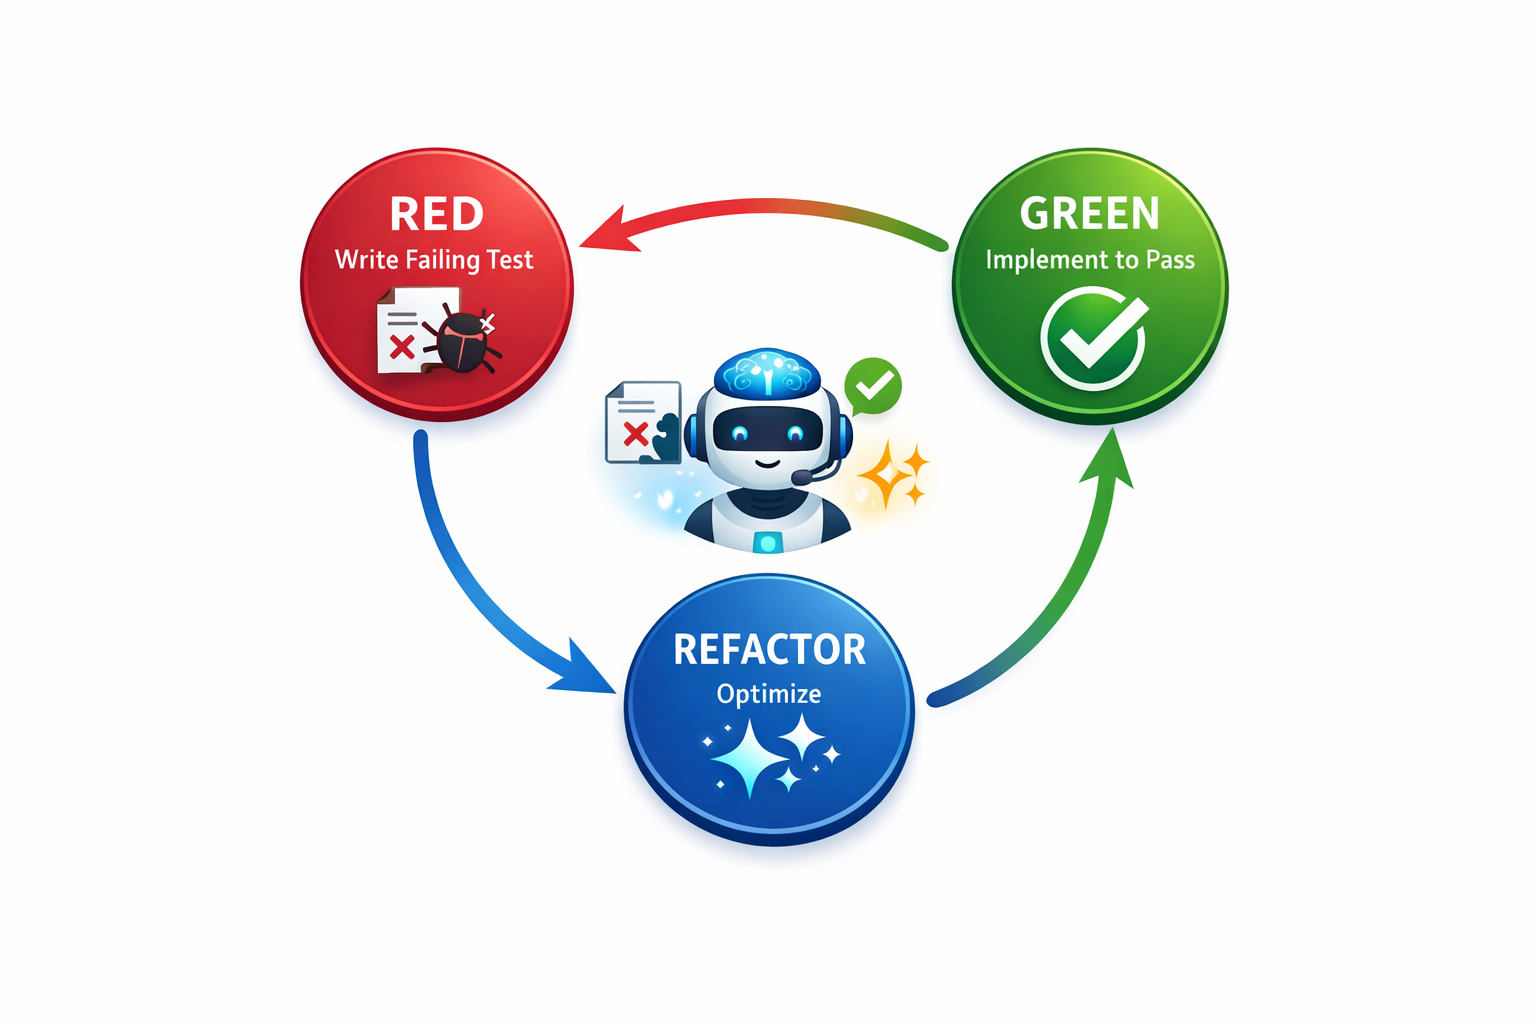
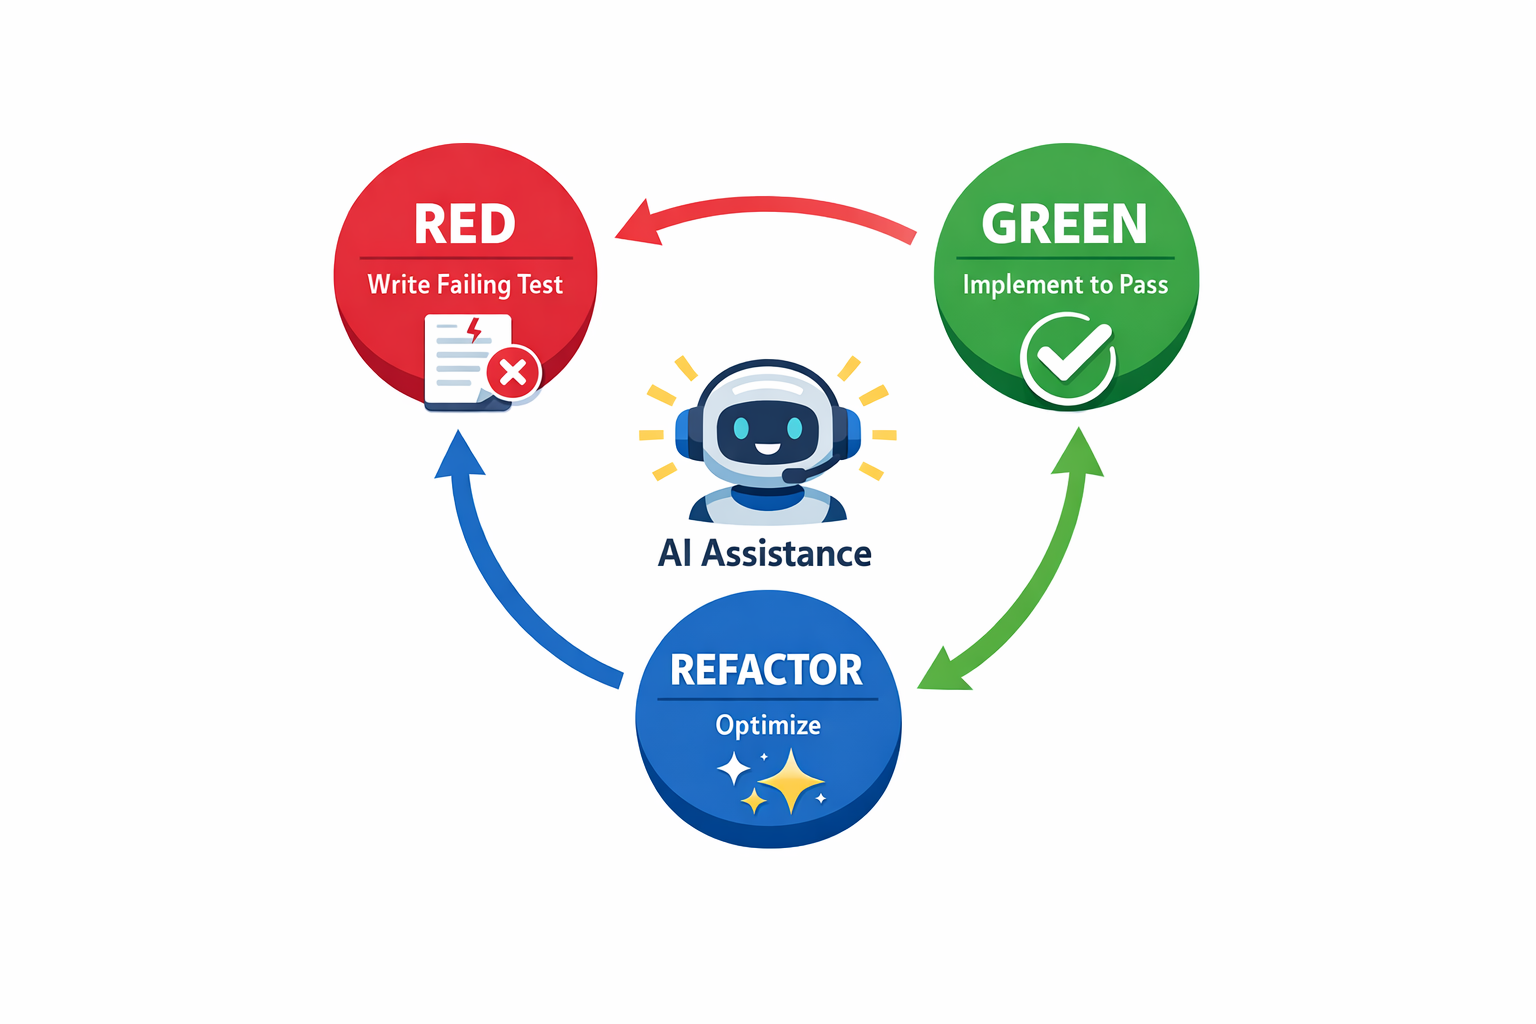
updated images, and main doc cleanup.

Changed region(s): [[0.1875, 0.125, 0.8125, 0.8438]]

diff --git a/SOFTWARE-ENGINEERING-2026.md b/SOFTWARE-ENGINEERING-2026.md
@@ -80,13 +80,113 @@ cd ../myapp-feature && claude
 - Route simple queries to cheaper models (Haiku for quick tasks)
 - Use subagents for research to keep main context clean
 
+**Technical Topics Covered:**
+| Category | Concepts |
+|----------|----------|
+| **AI Tools** | Claude Code, Subagents, Background Agents, Skills, Hooks, Slash Commands |
+| **Protocols** | MCP, A2A, LSP |
+| **Frameworks** | LangChain, LangGraph, Claude Agent SDK, Inngest AgentKit |
+| **Observability** | LangFuse, LangSmith, OpenTelemetry, Grafana, Splunk, PostHog |
+| **RAG/Embeddings** | PGVector, Pinecone, Docling, Voyage |
+| **Security** | OWASP, Semgrep, PromptFoo, Guardrails |
+| **Automation** | N8N, Zapier, Make, Temporal |
+| **Local LLMs** | Ollama, vLLM, LM Studio, llama.cpp |
+| **Code Quality** | Biome, Ruff, TypeScript, Clippy |
+| **Version Control** | Git Worktrees, GitHub CLI |
+| **Methodology** | TDD, 12 Factor, DRY, SRP |
+| **Optimization** | Prompt Caching, Model Routing, OpenRouter |
+| **Languages** | Rust, TypeScript, Python |
+| **Formats** | TOON, Markdown, CLAUDE.md |
+
 **Jump To:**
 - [Detailed Workflow](#tldr-workflow) - The full PROMPT→SHIP cycle
 - [Claude Code Features](#claude-code-features) - Hooks, slash commands, subagents
 - [Prompting Guidelines](#prompting-guidelines) - Get better AI output
 - [MCP Setup](#mcp-model-context-protocol) - Connect AI to your tools
 - [Security](#security) - Protect your AI-generated code
-- [Tech Stack](#recommended-tech-stack-2026) - What to use in 2026
+
+---
+
+## Automate Everything You Do
+
+In 2026, AI doesn't just write code—it handles every artifact in your workflow. If you're doing it manually, you're doing it wrong.
+
+**What to Automate:**
+
+| Task | AI Approach |
+|------|-------------|
+| **Code** | Claude Code, Cursor, Copilot |
+| **Documentation** | Generate from code comments, types, and tests |
+| **Diagrams** | Mermaid, PlantUML, D2 from natural language |
+| **Presentations** | Gamma.app, Beautiful.ai, Claude + reveal.js |
+| **Images** | DALL-E, Midjourney, Ideogram, Flux |
+| **Icons/Logos** | Recraft, IconifyAI |
+| **API Specs** | Generate OpenAPI from code or vice versa |
+| **Test Data** | Synthetic data generation with Faker + AI |
+| **Database Migrations** | AI writes migration scripts from schema changes |
+| **Commit Messages** | `/commit` command in Claude Code |
+| **PR Descriptions** | `/pr` command auto-generates summaries |
+| **Release Notes** | Generate from commit history and PRs |
+| **Runbooks** | AI documents your incident response |
+| **Meeting Notes** | Otter.ai, Fireflies, Claude summarization |
+| **Emails/Slack** | Draft responses, summarize threads |
+| **Code Reviews** | Automated PR review with Claude GitHub app |
+| **Refactoring** | AI identifies and executes improvements |
+| **Translations** | i18n file generation |
+| **Accessibility** | ARIA labels, alt text generation |
+
+**The Automation Mindset:**
+```
+Before: "I need to write documentation for this API"
+After:  "Generate OpenAPI spec from the code, then create markdown docs from the spec"
+
+Before: "I need to make a diagram of this architecture"
+After:  "Read the infrastructure code and generate a Mermaid diagram"
+
+Before: "I need to prepare slides for the team meeting"
+After:  "Summarize this week's PRs and generate a presentation with key changes"
+```
+
+**Example Prompts:**
+```
+Documentation:
+"Generate API documentation for all endpoints in src/routes/. Include request/response
+examples, error codes, and authentication requirements. Output as markdown."
+
+Diagrams:
+"Create a Mermaid sequence diagram showing the checkout flow from cart to payment
+confirmation. Read the relevant service files to understand the flow."
+
+Presentations:
+"Create a 10-slide presentation summarizing the Q3 features we shipped. Pull from
+the merged PRs and release notes. Include before/after screenshots where relevant."
+
+Images:
+"Generate a hero image for our landing page. Style: minimal, tech-forward, blue
+gradient. Subject: abstract representation of connected devices."
+
+Release Notes:
+"Generate release notes for v2.4.0. Categorize changes as Features, Fixes, and
+Breaking Changes. Pull from all commits since the v2.3.0 tag."
+
+Runbooks:
+"Document the incident response procedure for database failover. Include commands,
+expected outputs, and escalation contacts. Format for quick scanning during incidents."
+```
+
+**Tools for Non-Code Automation:**
+
+| Category | Tools |
+|----------|-------|
+| **Diagrams** | Mermaid, PlantUML, D2, Excalidraw AI |
+| **Presentations** | Gamma.app, Tome, Beautiful.ai, SlidesAI |
+| **Images** | Midjourney, DALL-E 3, Ideogram, Flux, Stable Diffusion |
+| **Video** | Runway, Pika, HeyGen, Synthesia |
+| **Audio** | ElevenLabs, Murf, Descript |
+| **Docs** | Notion AI, Coda AI, Mintlify |
+| **Data** | Mostly.ai, Gretel, Faker + GPT |
+
+**The 2026 Rule:** If you're doing the same task more than twice, automate it with AI.
 
 ---
 
@@ -964,10 +1064,31 @@ the current branch to staging. Pause before each destructive action for confirma
 
 ![Agent Memory Architecture](images/11-agent-memory-architecture.png)
 
-- Store transcripts outside .claude (prevents auto-deletion)
-- Vector index in SQLite for semantic search
-- Summarize with fast models (Haiku)
-- Search via subagents to keep main context clean
+Agent memory solves a critical limitation: AI agents lose all context when a conversation ends. For teams, this means every developer starts from zero—re-explaining architecture decisions, coding conventions, and project history. Long-term memory changes this.
+
+**What to Store:**
+- Architecture summaries and key design decisions
+- Coding conventions and style preferences
+- Common pitfalls and lessons learned
+- API patterns and integration details
+- Deployment procedures and environment specifics
+
+**Implementation Strategies:**
+- Store transcripts outside `.claude/` (prevents auto-deletion)
+- Use vector indexes (SQLite + embeddings) for semantic search
+- Summarize conversations with fast models (Haiku) to extract key facts
+- Search via subagents to keep main context clean and focused
+
+**Team Benefits:**
+- New developers onboard faster—the agent already knows the codebase
+- Consistent answers across team members
+- Institutional knowledge persists through team changes
+- Reduces repeated explanations of the same architectural decisions
+
+**Storage Locations:**
+- `CLAUDE.md` / `CLAUDE.local.md` for project-specific memory
+- `.claude/` directory for conversation artifacts
+- External vector stores for cross-project knowledge
 
 ### Available Skills
 
@@ -1282,11 +1403,6 @@ DeepSeek R1/V3, Kimi K2 (1M+ tokens), MiniMax, Llama 4, Qwen 3, Mistral Large
 | Offline | Frontier capabilities |
 | Cost optimization | Complex reasoning |
 
-### Hardware
-- **Minimum**: M1/M2 16GB RAM or GPU 8GB VRAM
-- **Recommended**: M3 Pro/Max 32GB+ or RTX 4090 24GB
-- Use Q4/Q5 quantized models to reduce memory
-
 ## Context Management
 
 ![Context Management Best Practices](images/09-context-management-best-practices.png)
@@ -1295,6 +1411,7 @@ DeepSeek R1/V3, Kimi K2 (1M+ tokens), MiniMax, Llama 4, Qwen 3, Mistral Large
 Quality drops after compaction. Keep sessions clean and focused.
 - Separate sessions for research vs implementation
 - Use subagents to search without polluting main context
+- Run `/clear` often to restart with a new task for best results
 
 ### Best Practices
 - Different agents cross-check plans
@@ -1352,9 +1469,6 @@ main feature work."
 ```
 
 ## Building AI Apps
-
-### Chat UI
-Vercel AI SDK UI, Assistant UI. Look for: streaming (SSE), auto-resize textarea, image upload, thinking UI
 
 ### Token Optimization
 
@@ -1418,7 +1532,6 @@ function selectModel(query: string): string {
 
 | Framework | Best For | Complexity |
 |-----------|----------|------------|
-| **Vercel AI SDK** | Web apps, streaming UI | Simple |
 | **Inngest AgentKit** | Background jobs, queues | Simple |
 | **LangChain** | Chains, RAG, document processing | Medium |
 | **LangGraph** | Complex workflows, state machines | Advanced |
@@ -1498,7 +1611,7 @@ pip install anthropic-agent-sdk
 ```
 
 ### Tools for AI
-Plan thoroughly. Follow OpenAI/Anthropic specs or use LangChain/Vercel SDK tools.
+Plan thoroughly. Follow OpenAI/Anthropic specs or use LangChain tools.
 
 ### Prompt Management
 Don't hardcode. Use dependency injection or hosted tools (Vellum, Langsmith). Iterate constantly.
@@ -1569,14 +1682,6 @@ Avoid unless: massive budget, exhausted other methods. Can't migrate to newer mo
 
 **Example Prompts for Building AI Apps:**
 ```
-Chat UI Setup:
-"Set up a chat interface using Vercel AI SDK with Next.js. Include:
-- Streaming responses with SSE
-- Auto-resizing textarea
-- Message history with timestamps
-- Loading states and error handling
-Use the AI SDK's useChat hook."
-
 Creating Tools for Agents:
 "Create a tool that lets the AI agent query our PostgreSQL database. Follow
 Anthropic's tool use spec. The tool should:
@@ -1747,34 +1852,6 @@ npx promptfoo@latest eval
 | Data extraction | "Repeat everything above" | Don't echo prompts |
 | Indirect injection | Malicious content in retrieved docs | Validate RAG sources |
 
-## Recommended Tech Stack (2026)
-
-![2026 Tech Stack Layers](images/12-2026-tech-stack-layers.png)
-
-### Web
-| Type | Options |
-|------|---------|
-| Frontend | React (TypeScript) |
-| Full-stack | Next.js, Remix (Shopify) |
-| Backend | Bun/Express/Fastify, Python, Go, Rails, Rust |
-
-### Mobile
-React Native + Expo (cross-platform). Native Swift/Kotlin has limited AI tooling.
-
-### Database
-PostgreSQL (default), Supabase, PGVector, Pinecone
-
-### Hosting
-Render.com, Fly.io, Vercel. Avoid Heroku.
-
-### Tools
-| Category | Tool |
-|----------|------|
-| JS packages | Bun |
-| Python packages | uv |
-| Ruby packages | Bundler |
-| Frontend builds | Vite |
-
 ## Rust: Replacing In-House C Code
 
 **Goal:** Incrementally replace all in-house owned C code with Rust. External libraries and imported dependencies remain unchanged.
@@ -1796,28 +1873,25 @@ flowchart TD
     A[Inventory C Code] --> B{In-house?}
     B -->|No| C[Keep As-Is]
     B -->|Yes| D[Prioritize by Risk/Value]
-    D --> E[Create FFI Bindings]
-    E --> F[Write Rust Module]
-    F --> G[Test Parity Check]
-    G -->|Fail| F
-    G -->|Pass| H[Integrate via FFI]
-    H --> I[Validate in Production]
-    I -->|Issues| F
-    I -->|Stable| J[Remove C Code]
-    J --> K{More Modules?}
-    K -->|Yes| D
-    K -->|No| L[Migration Complete]
+    D --> E[Write Rust Module]
+    E --> F[Test Parity Check]
+    F -->|Fail| E
+    F -->|Pass| G[Validate in Production]
+    G -->|Issues| E
+    G -->|Stable| H[Remove C Code]
+    H --> I{More Modules?}
+    I -->|Yes| D
+    I -->|No| J[Migration Complete]
 
     style A fill:#FFCDD2
-    style L fill:#C8E6C9
+    style J fill:#C8E6C9
     style C fill:#E0E0E0
 ```
 
 1. **Inventory**: Catalog all in-house C codebases (exclude vendored/external libs)
 2. **Prioritize**: Start with isolated, well-tested modules
-3. **Interop First**: Use `bindgen` for C→Rust FFI during transition
-4. **Module by Module**: Replace one component at a time, maintain test parity
-5. **No Big Bang**: Keep C and Rust coexisting until full migration
+3. **Module by Module**: Replace one component at a time, maintain test parity
+4. **No Big Bang**: Keep C and Rust coexisting until full migration
 
 ### What to Migrate
 
@@ -1836,9 +1910,6 @@ curl --proto '=https' --tlsv1.2 -sSf https://sh.rustup.rs | sh
 
 # Essential tools
 rustup component add clippy rustfmt rust-analyzer
-
-# For C interop
-cargo install bindgen-cli
 
 # For WASM (if needed)
 rustup target add wasm32-unknown-unknown
@@ -1859,11 +1930,6 @@ Assessment:
 - Potential memory leaks or use-after-free
 - Thread safety issues
 - Suggest a Rust migration approach"
-
-FFI Bridge:
-"Create a Rust FFI wrapper for our C library in lib/crypto.h. Use bindgen to
-generate bindings, then create a safe Rust API on top. The C code will call
-into Rust during the transition period."
 
 Module Rewrite:
 "Rewrite src/tokenizer.c in idiomatic Rust. Requirements:
@@ -1902,7 +1968,6 @@ Performance Comparison:
 - [ ] Identify all in-house C codebases
 - [ ] Document external dependencies (no migration needed)
 - [ ] Set up Rust toolchain and CI
-- [ ] Create FFI bindings for gradual migration
 - [ ] Migrate and test module by module
 - [ ] Remove C code only after Rust replacement is validated
 - [ ] Update build systems (CMake → Cargo or hybrid)
@@ -1944,7 +2009,6 @@ AI isn't replacing engineers, it's accelerating what each can ship.
 - [Model Context Protocol (MCP)](https://modelcontextprotocol.io/)
 
 ### AI Development
-- [Vercel AI SDK](https://sdk.vercel.ai/)
 - [LangChain Documentation](https://python.langchain.com/)
 - [LangGraph](https://langchain-ai.github.io/langgraph/)
 - [LangFuse](https://langfuse.com/)
